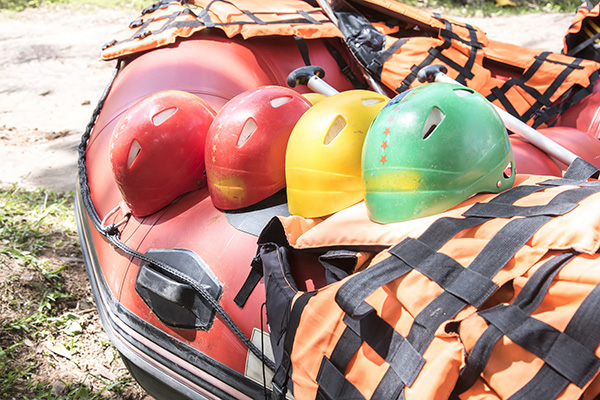
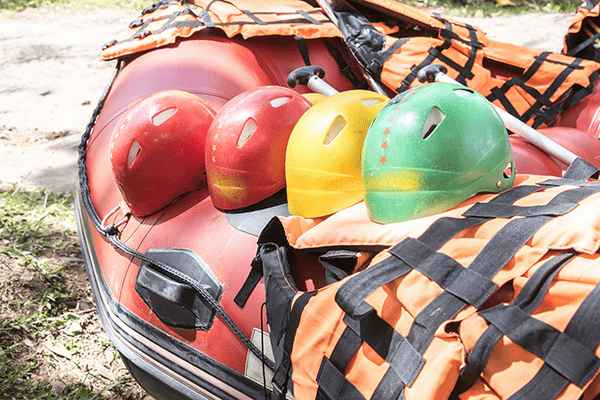
changes img

diff --git a/wwr/styles/sample.css b/wwr/styles/sample.css
@@ -94,9 +94,13 @@ header nav a:hover {
     top: 20px;
     left: 0;
     width: 100%;
-    padding: 15px;
-    color: white;
-    background-color: rgba(38, 70, 83, 0.75);
+    padding: 20px;
+    color: #e9c46a;
+    background-color: rgba(5, 35, 55, 0.85);
+    font-size: 36px;
+    font-weight: bold;
+    text-align: center;
+    text-shadow: 2px 2px 4px #000000;
 }
 
 .hero article {
